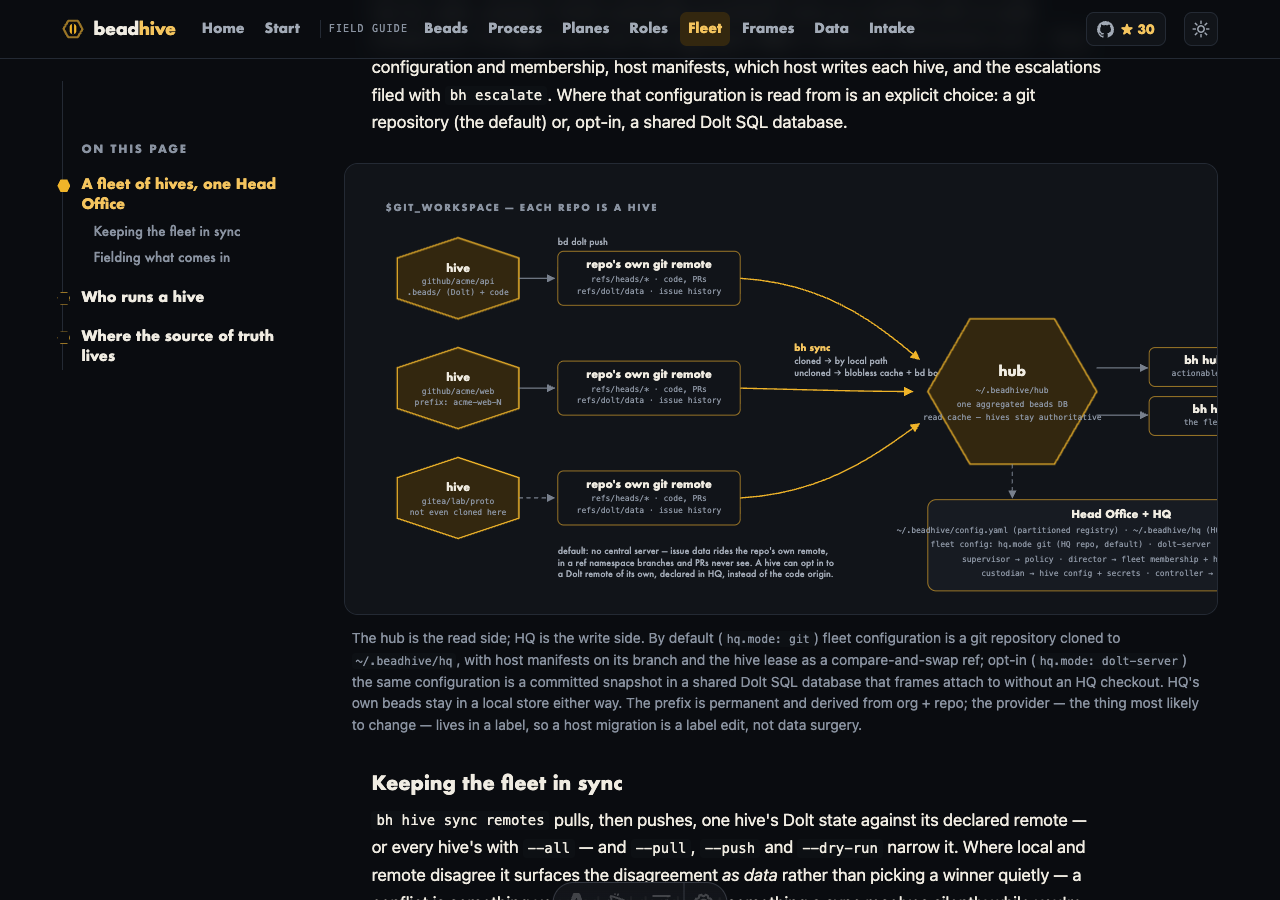
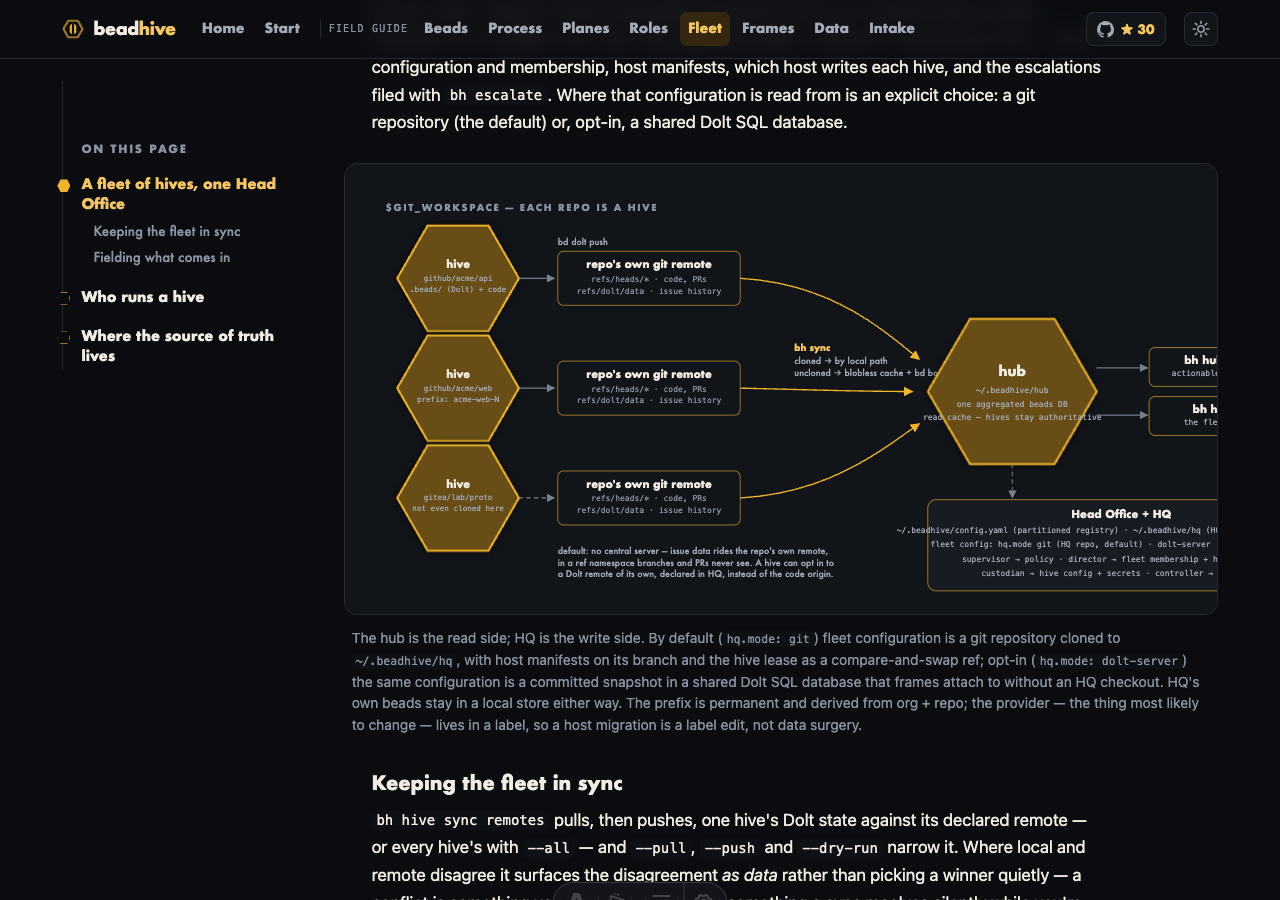
fix(fleet): regular flat-top hexagons sized to their labels; restore gate pulse

Changed region(s): [[0.3125, 0.2489, 0.4062, 0.6222], [0.7188, 0.3422, 0.875, 0.5289]]

diff --git a/src/styles/global.css b/src/styles/global.css
@@ -863,8 +863,8 @@
     :root:not([data-fx-gates="off"]) .gatehex:nth-of-type(3n) { animation-delay: -4.8s; }
   }
   @keyframes gate-breathe {
-    0%, 100% { stroke-width: 1.6; filter: none; }
-    50% { stroke-width: 2.4;
+    0%, 100% { stroke-width: 1.6; fill: var(--honey-wash); filter: none; }
+    50% { stroke-width: 2.4; fill: color-mix(in srgb, var(--honey) 28%, var(--honey-wash));
           filter: drop-shadow(0 0 5px color-mix(in srgb, var(--honey) 60%, transparent)); }
   }
 
